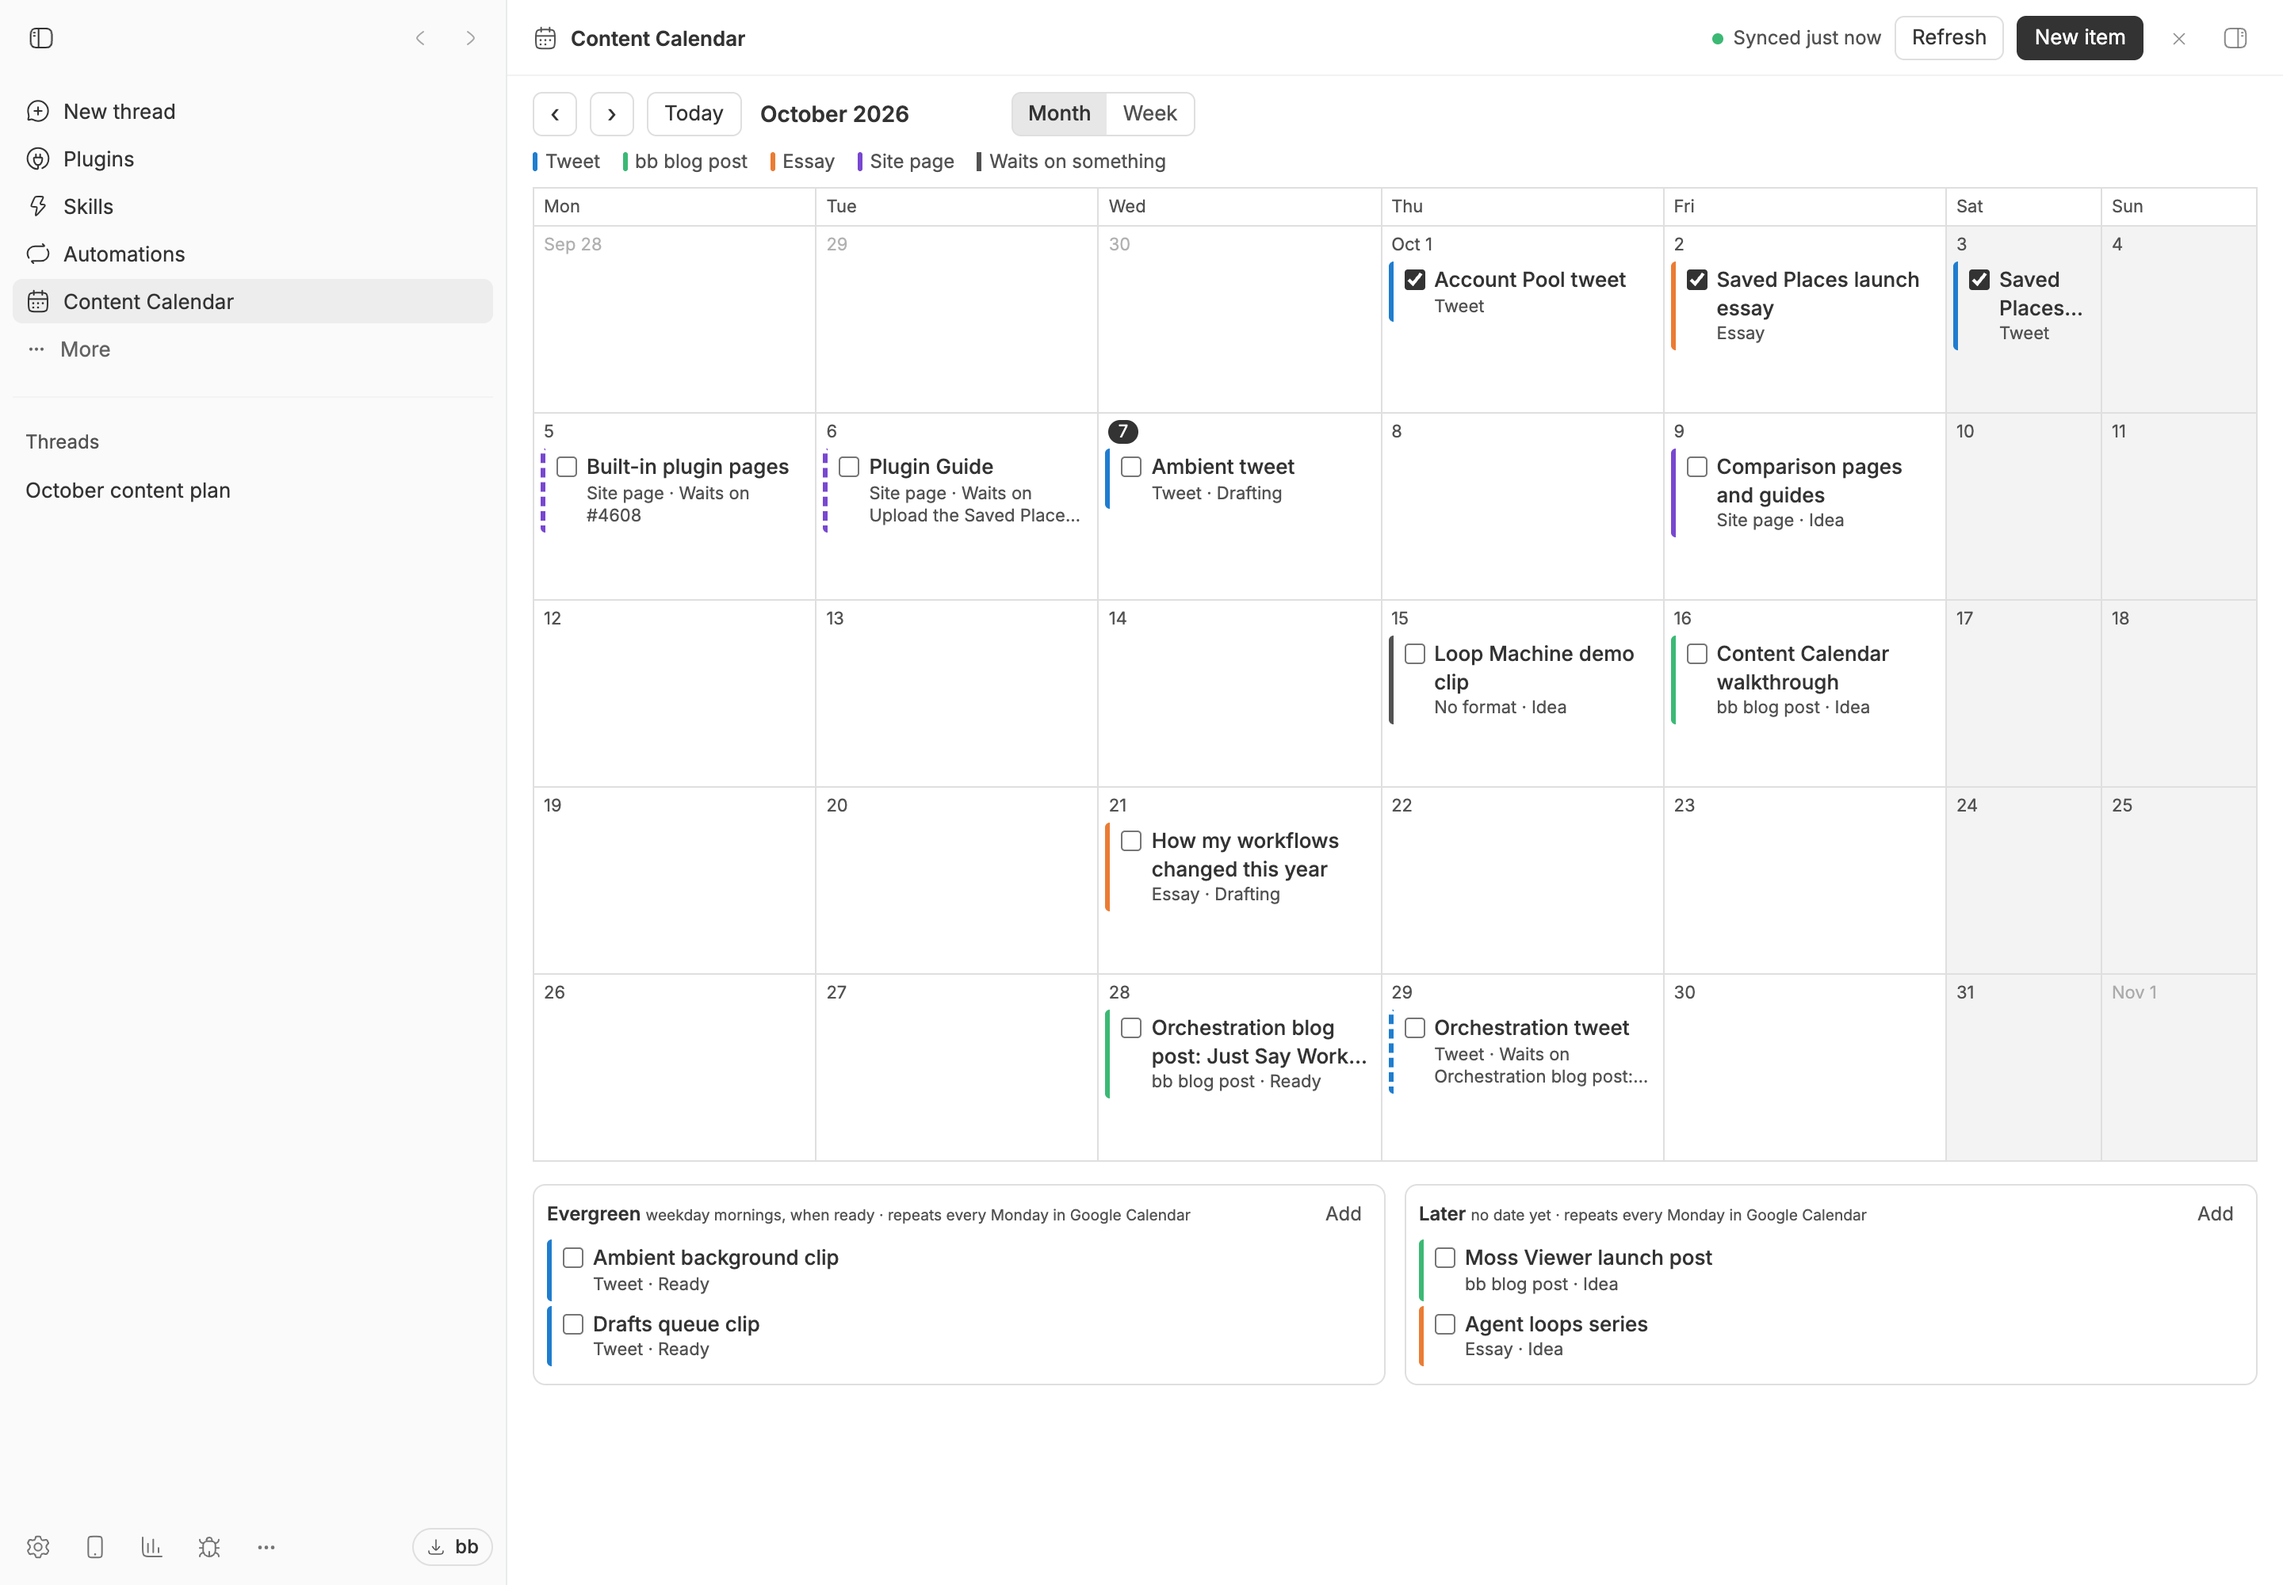
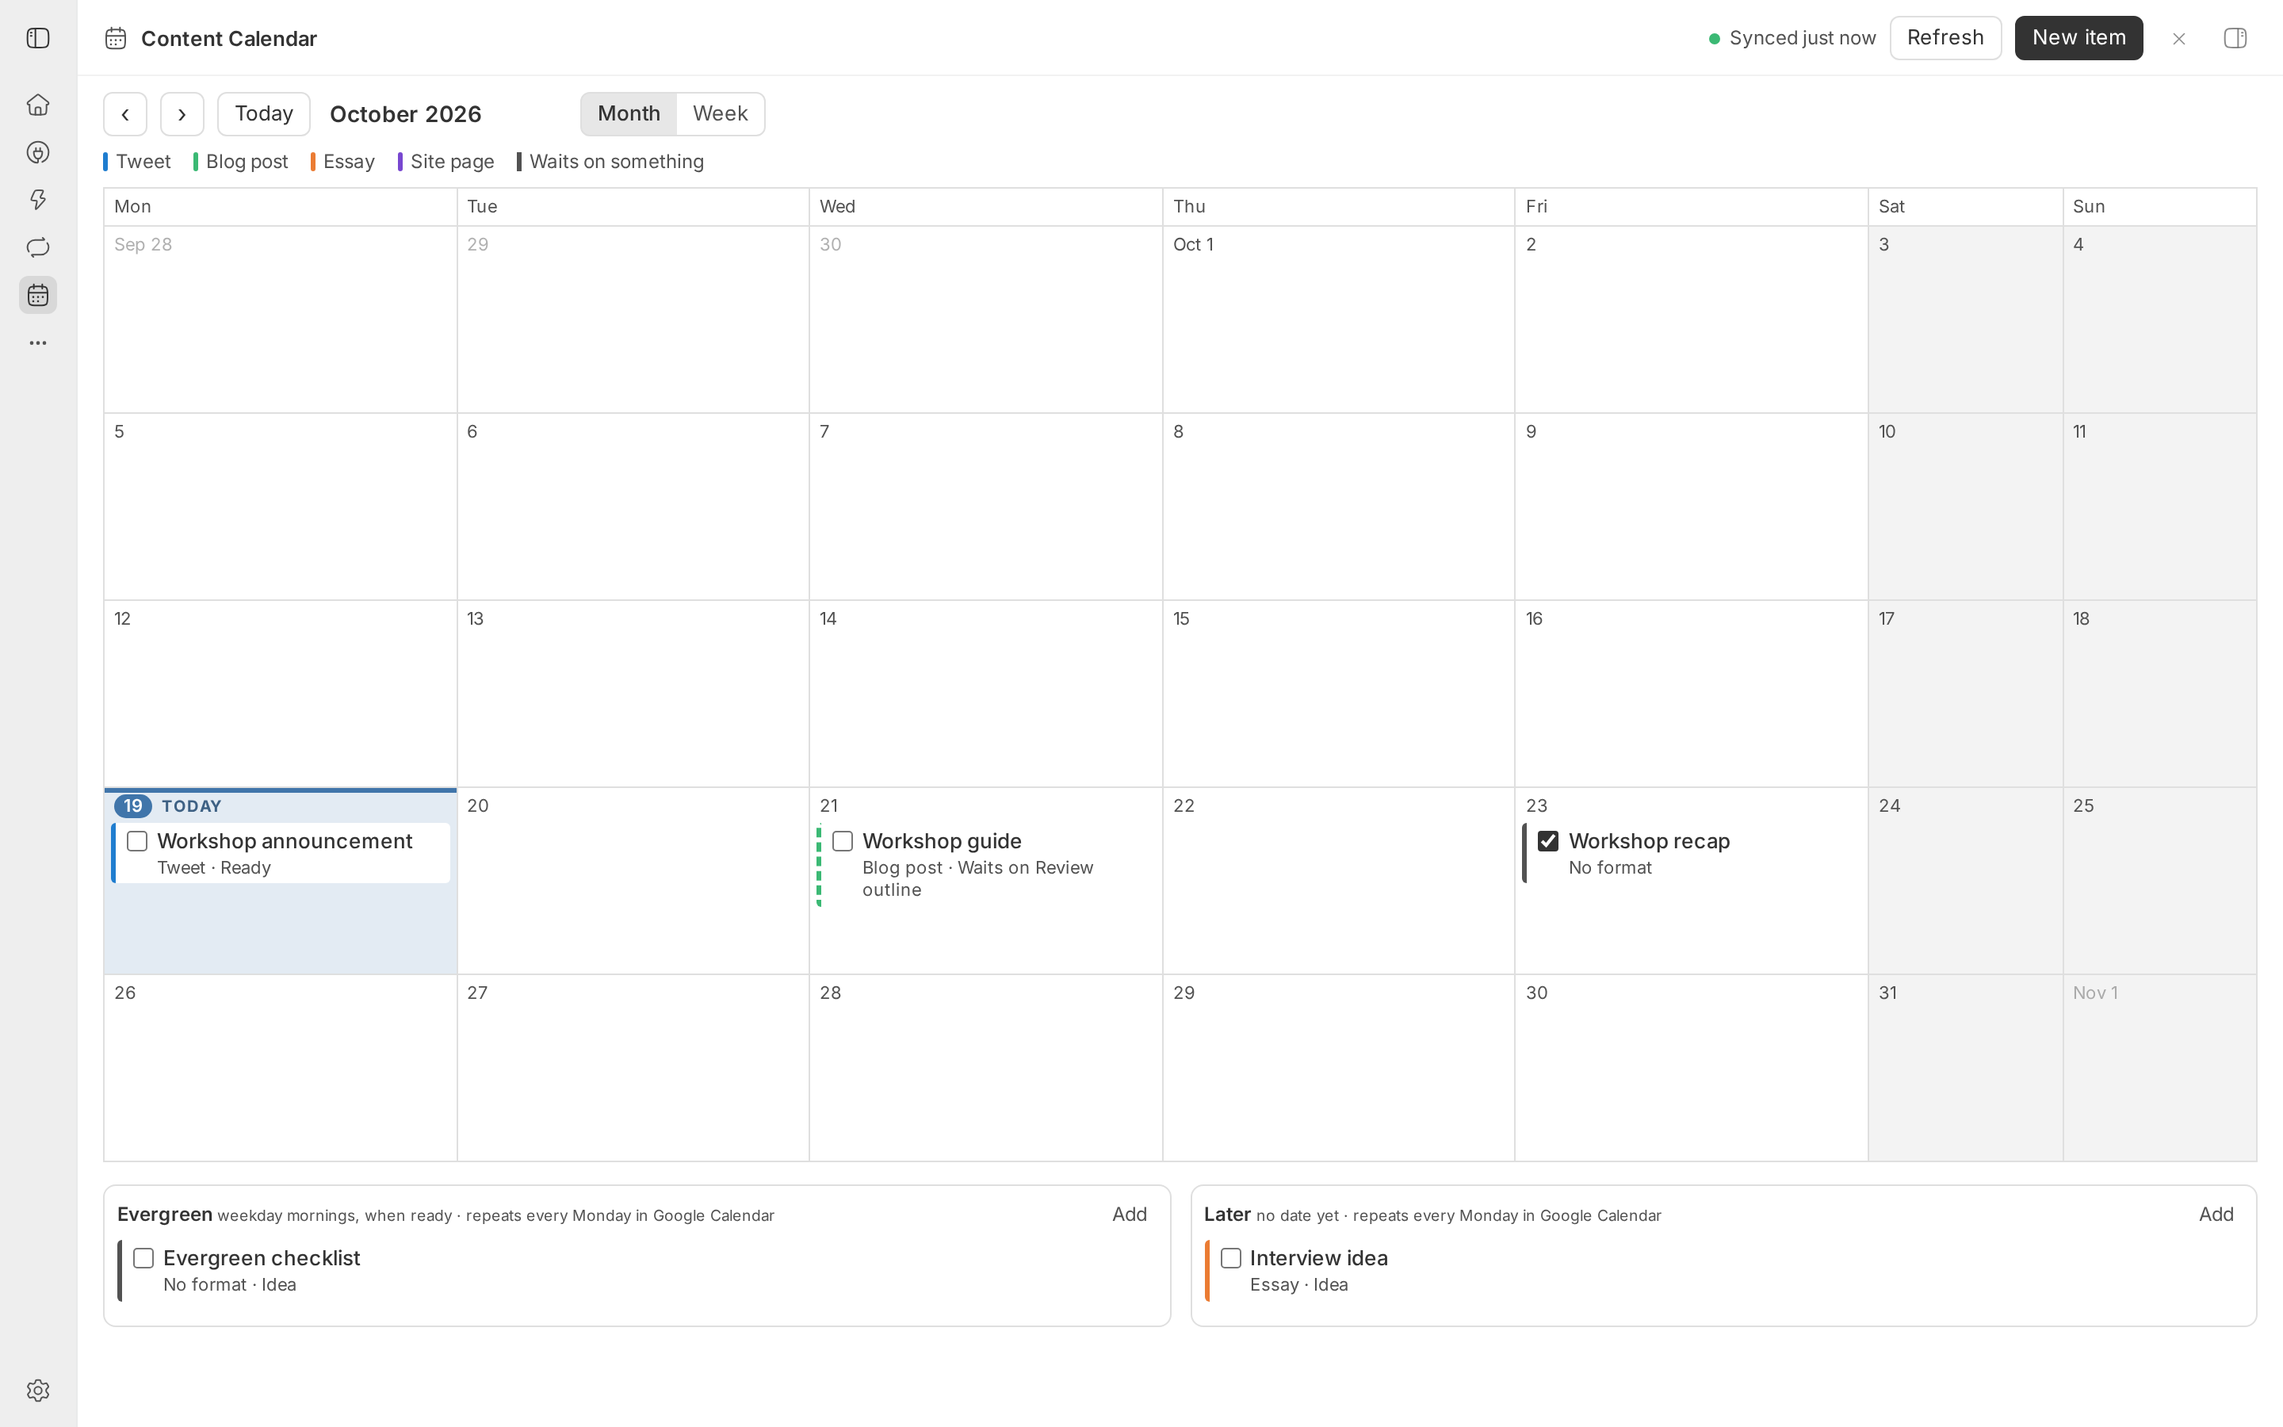
Show Content Calendar with a sample workshop plan
Replace the month, week and inline captures, which showed a real content
plan and machine name, with an isolated bb on fake Google Calendar, and add
the unconfigured setup state.

diff --git a/plugins/content-calendar/README.md b/plugins/content-calendar/README.md
@@ -2,7 +2,13 @@
 
 Plan deliverables on a month or week calendar. Each new item starts as an all-day event on a dedicated Google calendar named **Content**, so the schedule also shows in Google Calendar and on your phone.
 
-![Content Calendar month view with Evergreen and Later trays](docs/calendar-month.png)
+![Content Calendar month view for October 2026 with sample workshop items and the Evergreen and Later trays](docs/calendar-month.png)
+
+![Week of October 19 with the Workshop guide details open, showing its Review outline gate and Workshop brief link](docs/calendar-week.png)
+
+![The same sample week shown inline in a conversation](docs/calendar-inline.png)
+
+![Setup before connecting: Google OAuth client steps, the time zone setting and a disabled Connect button](docs/calendar-setup.png)
 
 ## Install
 

diff --git a/README.md b/README.md
@@ -114,7 +114,7 @@ Install: `bb plugin install git:https://github.com/brsbl/bb-plugins.git@plugin/t
 
 Plans deliverables on a month or week calendar stored on a dedicated Google calendar, with drag-and-drop rescheduling, Evergreen and Later trays, gates, and attached Moss notes. Agents manage it through `bb content-calendar` and show it live inline in chat.
 
-![Content Calendar month view with Evergreen and Later trays](plugins/content-calendar/docs/calendar-month.png)
+![Content Calendar month view for October 2026 with sample workshop items and the Evergreen and Later trays](plugins/content-calendar/docs/calendar-month.png)
 
 [Source](plugins/content-calendar) · [README](plugins/content-calendar/README.md)
 
